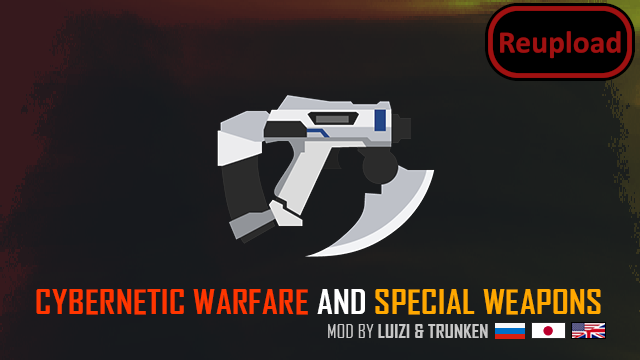
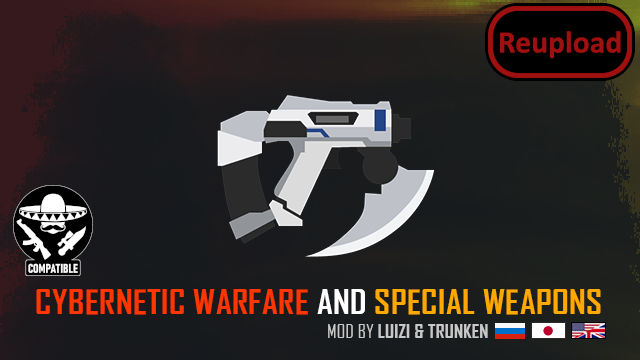
CE-patch is now included in the main CE-mod instead

Changed region(s): [[0.0, 0.4889, 0.1562, 0.7639]]

diff --git a/README.md b/README.md
@@ -5,6 +5,8 @@
 Update of Trunken and Luizis mod
 https://steamcommunity.com/sharedfiles/filedetails/?id=1811369911
 
+- CE-patch moved into the main CE-mod instead
+
 ![Image](https://i.imgur.com/pufA0kM.png)
 
 	
